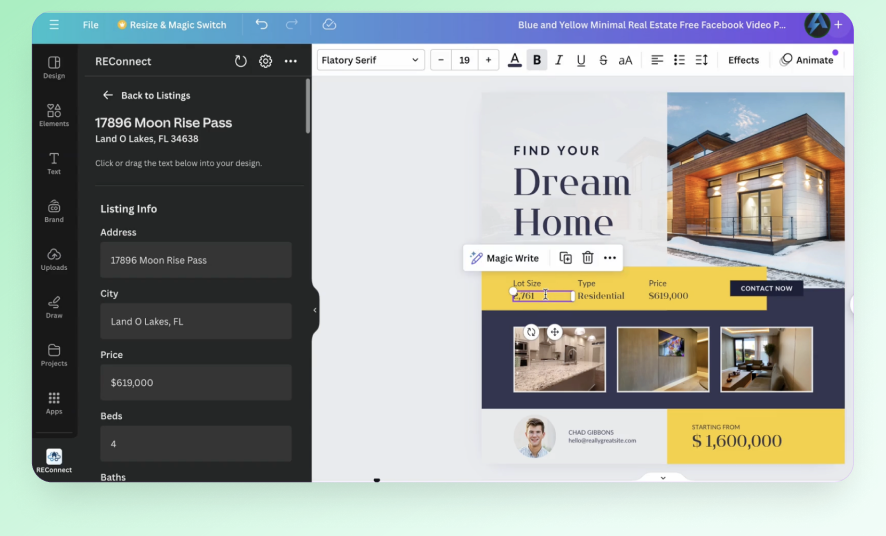
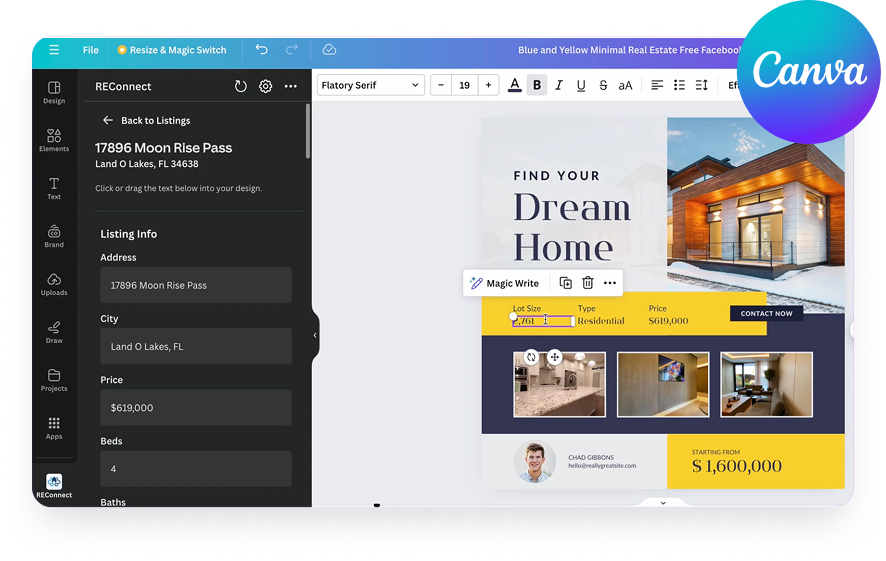
Canva Module Upate

diff --git a/phase1-v2.css b/phase1-v2.css
@@ -44,7 +44,7 @@
    Canva module (v2) — "Use in Canva"
    ============================== */
 .dash-promo-canva-v2 {
-  background: linear-gradient(145deg, #ABEFC3 7%, #ECFDF5 54%, #FDFFFE 90%);
+  background: linear-gradient(145deg, #C2F9E7 7%, #EBFFEC 54%, #FFFFFF 90%);
   border: 1px solid #DADADA;
   box-shadow: none;
   padding: 33px 33px 29px;
@@ -62,21 +62,10 @@
   border-radius: 7px;
 }
 
-.canva-v2-badge {
-  position: absolute;
-  top: -14px;
-  right: -8px;
-  width: 48px;
-  height: 48px;
-  border-radius: 50%;
-  box-shadow: 0 2px 8px rgba(0,0,0,0.15);
-}
-
 /* Smaller, centered screenshot + centered content on mobile */
 @media (max-width: 768px) {
   .dash-promo-canva-v2 { text-align: center; }
   .canva-v2-shot-wrap { max-width: 260px; margin: 0 auto 10px; }
-  .canva-v2-badge { width: 38px; height: 38px; top: -10px; right: -6px; }
   .canva-v2-open-btn {
     width: auto;
     display: inline-flex;
@@ -133,7 +122,7 @@
     #ffffff 360deg
   );
   transform: translate(-50%, -50%) rotate(0deg);
-  animation: canva-border-spin 9s linear infinite;
+  animation: canva-border-spin 6s linear infinite;
   z-index: 0;
   pointer-events: none;
 }
@@ -240,8 +229,9 @@
 .dcp-btn.dcp-btn-done { background: #10B981; cursor: default; }
 .dcp-btn.dcp-btn-done:hover { background: #10B981; }
 
-@media (max-width: 480px) {
-  .dcp-btn { max-width: none; }
+/* Mobile: hug the label and stay left-justified instead of stretching full width */
+@media (max-width: 768px) {
+  .dcp-btn { width: auto; max-width: none; padding: 0 22px; }
 }
 
 /* ==============================

diff --git a/phase1-v2-overrides.jsx b/phase1-v2-overrides.jsx
@@ -261,8 +261,7 @@ const Dashboard = ({ go }) => {
         {/* 2 — Use in Canva */}
         <div className="dash-promo-card dash-promo-canva dash-promo-canva-v2 dash-order-3">
           <div className="canva-v2-shot-wrap">
-            <img src="uploads/canva-plugin-screenshot.png?v=3" alt="REConnect Canva plugin interface" className="canva-v2-shot" />
-            <img src="uploads/canva-badge-icon.png" alt="Canva" className="canva-v2-badge" />
+            <img src="uploads/canva-plugin-screenshot.png" alt="REConnect Canva plugin interface" className="canva-v2-shot" />
           </div>
           <h2 className="dash-promo-title">Use in Canva</h2>
           <p className="dash-promo-desc">Your listing data is now connected to Canva.</p>
